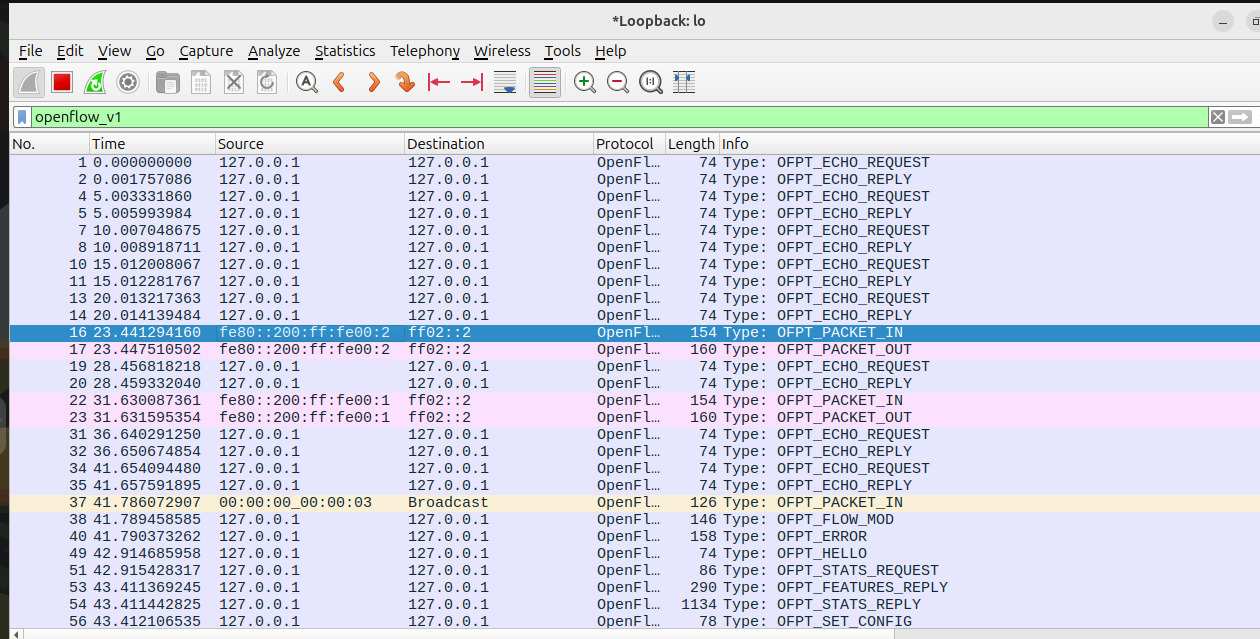
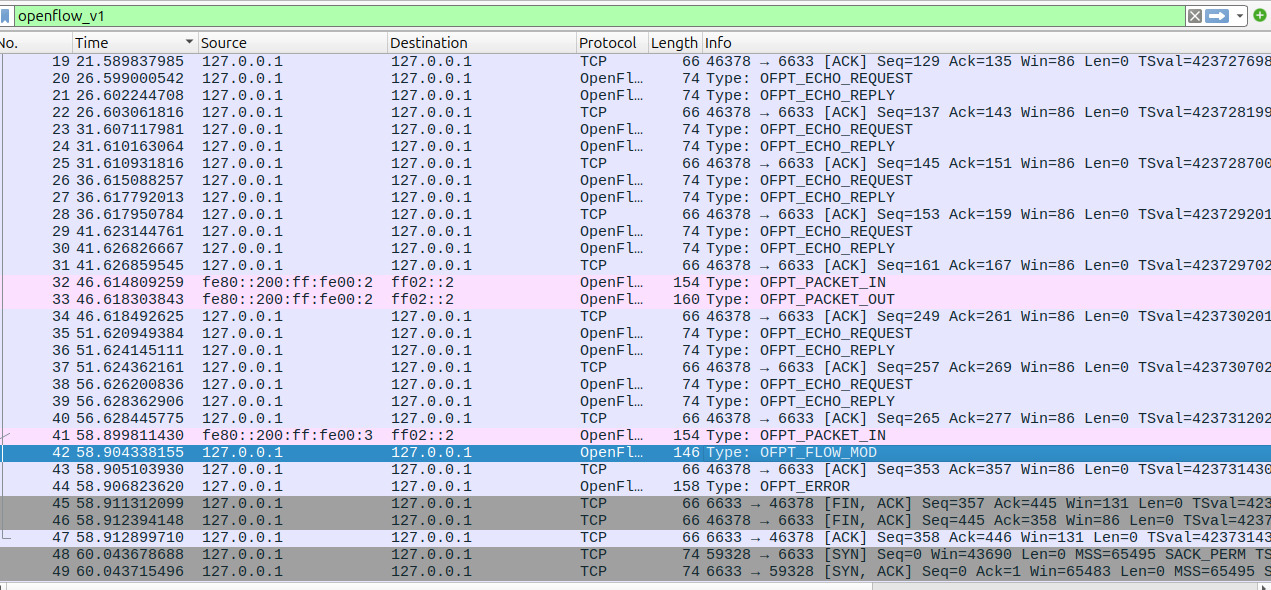
updated project

diff --git a/pox/pox/forwarding/firewall_blocking.py b/pox/pox/forwarding/firewall_blocking.py
@@ -1,39 +1,49 @@
+import logging
 from pox.core import core
 import pox.openflow.libopenflow_01 as of
 
 log = core.getLogger()
 
+# === Add File Handler for Logging to a File ===
+file_handler = logging.FileHandler('firewall_blocking.log')
+file_handler.setLevel(logging.INFO)
+formatter = logging.Formatter('%(asctime)s - %(name)s - %(levelname)s - %(message)s')
+file_handler.setFormatter(formatter)
+if not any(isinstance(h, logging.FileHandler) for h in log.handlers):
+    log.addHandler(file_handler)
+# ==============================================
+
 class FirewallBlocking (object):
-  def __init__ (self):
-    core.openflow.addListeners(self)
+    def __init__ (self):
+        core.openflow.addListeners(self)
 
-  def _handle_PacketIn (self, event):
-    packet = event.parse()
-    
-    # Blocking Host 3 (MAC: 00:00:00:00:00:03)
-    if packet.src == '00:00:00:00:00:03':
-      log.info("Intruder Detected! Blocking Host 3: %s", packet.src)
-      
-      msg = of.ofp_flow_mod()
-      msg.priority = 100 # High priority rule
-      msg.match.dl_src = packet.src
-      
-      # Setting long timeouts so flow table doesn't clear immediately
-      msg.idle_timeout = 600 
-      msg.hard_timeout = 600
-      
-      # Action: NONE (Drop)
-      msg.actions.append(of.ofp_action_output(port = of.OFPP_NONE))
-      event.connection.send(msg)
-      
-      log.info("FLOW TABLE UPDATED: Drop rule installed for 10 minutes.")
-      return
+    def _handle_PacketIn (self, event):
+        packet = event.parse()
+        
+        # Blocking Host 3 (MAC: 00:00:00:00:00:03)
+        if packet.src == '00:00:00:00:00:03':
+            log.info("Intruder Detected! Blocking Host 3: %s", packet.src)
+            
+            msg = of.ofp_flow_mod()
+            msg.priority = 100  # High priority rule
+            msg.match.dl_src = packet.src
+            
+            # Setting long timeouts so flow table doesn't clear immediately
+            msg.idle_timeout = 600 
+            msg.hard_timeout = 600
+            
+            # Action: NONE (Drop)
+            msg.actions.append(of.ofp_action_output(port = of.OFPP_NONE))
+            event.connection.send(msg)
+            
+            log.info("FLOW TABLE UPDATED: Drop rule installed for 10 minutes.")
+            return
 
-    # Normal forwarding for other hosts
-    msg = of.ofp_packet_out()
-    msg.data = event.ofp
-    msg.actions.append(of.ofp_action_output(port = of.OFPP_FLOOD))
-    event.connection.send(msg)
+        # Normal forwarding for other hosts
+        msg = of.ofp_packet_out()
+        msg.data = event.ofp
+        msg.actions.append(of.ofp_action_output(port = of.OFPP_FLOOD))
+        event.connection.send(msg)
 
 def launch ():
-  core.registerNew(FirewallBlocking)
+    core.registerNew(FirewallBlocking)

diff --git a/README.md b/README.md
@@ -16,6 +16,11 @@ The controller detects Host 3 and triggers the blocking mechanism.
 
 ### 2. Flow Table Verification
 Verified the hardware-level 'drop' rule installed in the switch (s1).
+
+| Priority | Match | Action | Notes |
+|----------|-------|--------|-------|
+| 1 | src_mac=MAC_OF_HOST3 | DROP | Intruder traffic blocked |
+| 0 | default | NORMAL | Normal forwarding |
 ![Flow Table](images/flow_table.png)
 
 ### 3. Network Connectivity Status
@@ -30,17 +35,20 @@ Final `pingall` results showing Host 3 is isolated (X).
 ### 5. Wireshark Packet Analysis
 The following captures demonstrate the OpenFlow communication between the POX Controller and the Mininet Switch.
 
-- **Capture 1: OpenFlow Protocol Overview**
-  Shows the sequence of `OFPT_PACKET_IN`, `OFPT_PACKET_OUT`, and `OFPT_FLOW_MOD` messages. Note Frame 37 where the intruder (Host 3) is detected.
+- **Capture 1: OpenFlow Protocol Overview(wireshark1.jpg)**
+  Shows the high-level sequence of communication. Note Frame 41, where the system transitions from idle echo requests to active threat handling.
   ![capture1](images/wireshark1.png)
   
-- **Capture 2: Packet-In Detail (Frame 16)**
-  The switch sends a `PACKET_IN` message to the controller because it doesn't have a matching flow entry for the incoming traffic.
+- **Capture 2: Detection Phase (wireshark2.png - Frame 41)**
+  The switch encounters traffic with no matching flow entry and sends an OFPT_PACKET_IN message to the controller. This allows the controller to inspect the header and identify the unauthorized MAC address.
   ![capture2](images/wireshark2.png)
   
-- **Capture 3: Packet-Out/Flow-Mod Response (Frame 17)**
-  The controller responds with a `PACKET_OUT` or `FLOW_MOD` to tell the switch how to handle the packet (in our case, to drop the intruder's traffic).
+- **Capture 3: Enforcement Phase (wireshark3.png - Frame 42)**
+  The controller responds with an OFPT_FLOW_MOD command. This message instructs the switch to install a "DROP" rule for the specific intruder MAC, ensuring all future packets from this source are discarded at the switch level.
   ![capture3](images/wireshark3.png)
+- **Capture 4: Post-Blocking Verification (wireshark4.png - Frame 44)**
+Further attempts by the blocked host result in an OFPT_ERROR or termination of the specific flow, confirming that the switch is successfully enforcing the new security policy.
+![capture4](images/wireshark3.png)
 ## How to Run
 1. **Start the Controller:**
    `python3 pox/pox.py forwarding.firewall_blocking`
